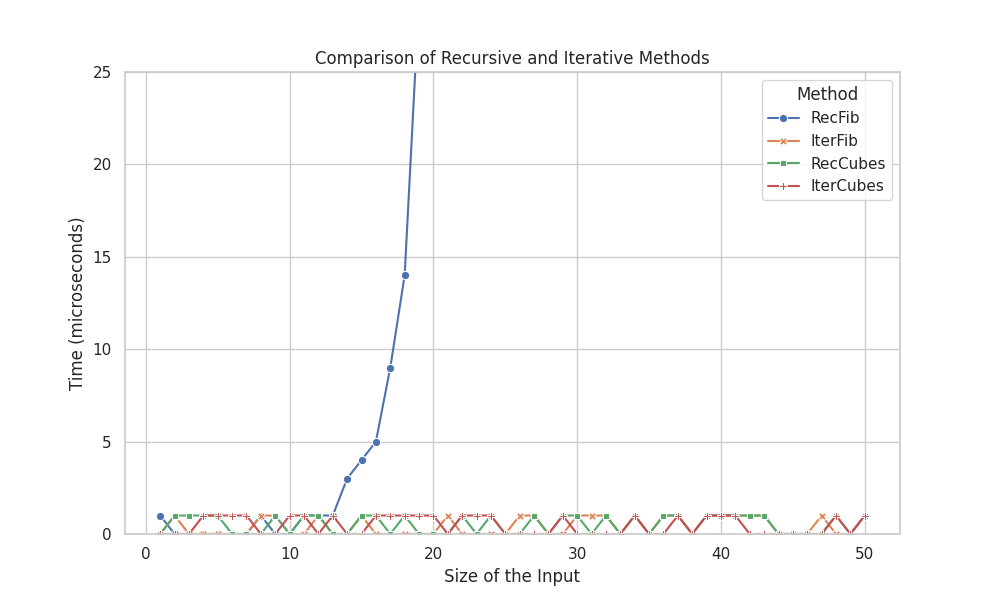
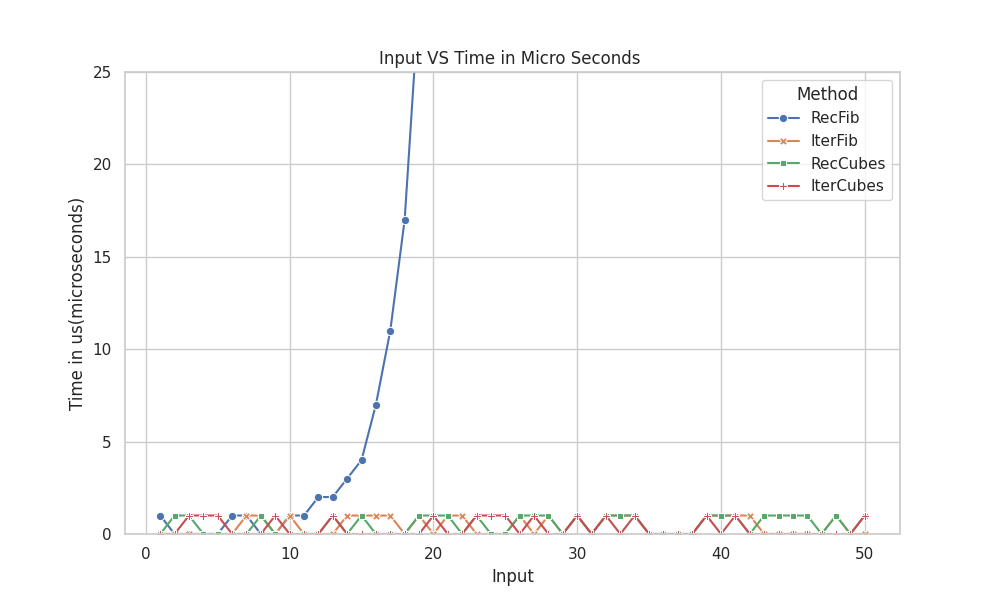
completing the another c assignment

diff --git a/Outside-Practise/Assignment /Another C/graph.py b/Outside-Practise/Assignment /Another C/graph.py
@@ -2,10 +2,9 @@ import pandas as pd
 import seaborn as sns
 import matplotlib.pyplot as plt
 
-# Initialize the DataFrame
 data = {'InputSize': [], 'RecFib': [], 'IterFib': [], 'RecCubes': [], 'IterCubes': []}
 
-# Read and parse the file
+
 with open('results.txt', 'r') as file:
     for line in file:
         inputs, fibrecValue, fibiterValue, sumrecValue, sumiterValue = map(float, line.strip().split(','))
@@ -15,25 +14,25 @@ with open('results.txt', 'r') as file:
         data['RecCubes'].append(sumrecValue)
         data['IterCubes'].append(sumiterValue)
 
-# Convert to DataFrame
+
 df = pd.DataFrame(data)
 
-# Melt the DataFrame for Seaborn
+
 df_melted = df.melt(id_vars=['InputSize'], var_name='Method', value_name='Time')
 
-# Create the Seaborn plot
+
 sns.set_theme(style="whitegrid")
 plt.figure(figsize=(10, 6))
 sns.lineplot(data=df_melted, x='InputSize', y='Time', hue='Method', style='Method', markers=True, dashes=False)
 
-# Enhance the plot
-plt.xlabel('Size of the Input')
-plt.ylabel('Time (microseconds)')
-plt.title('Comparison of Recursive and Iterative Methods')
+
+plt.xlabel('Input')
+plt.ylabel('Time in us(microseconds)')
+plt.title('Input VS Time in Micro Seconds ')
 plt.ylim(0, 25)
 
-# Save the plot to a file
+
 plt.savefig("graph_seaborn.png")
 
-# Show the plot
+
 plt.show()

diff --git a/Outside-Practise/Assignment /Another C/assignment.c b/Outside-Practise/Assignment /Another C/assignment.c
@@ -29,7 +29,7 @@ int main() {
 
     resultfile = fopen("results.txt", "w");
     if (resultfile == NULL) {
-        printf("Unable to open file\n");
+        printf("Unable to open fil\n");
         return 1;
     }
 
